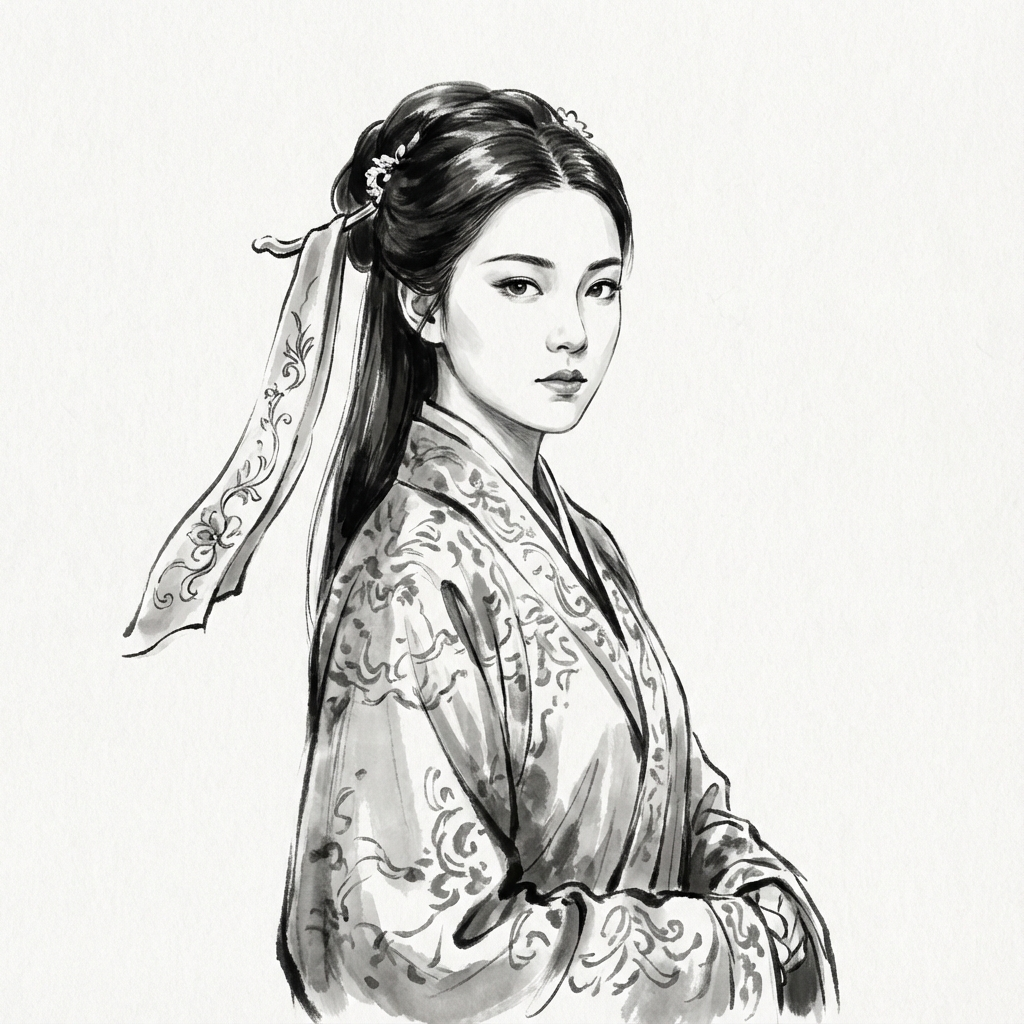
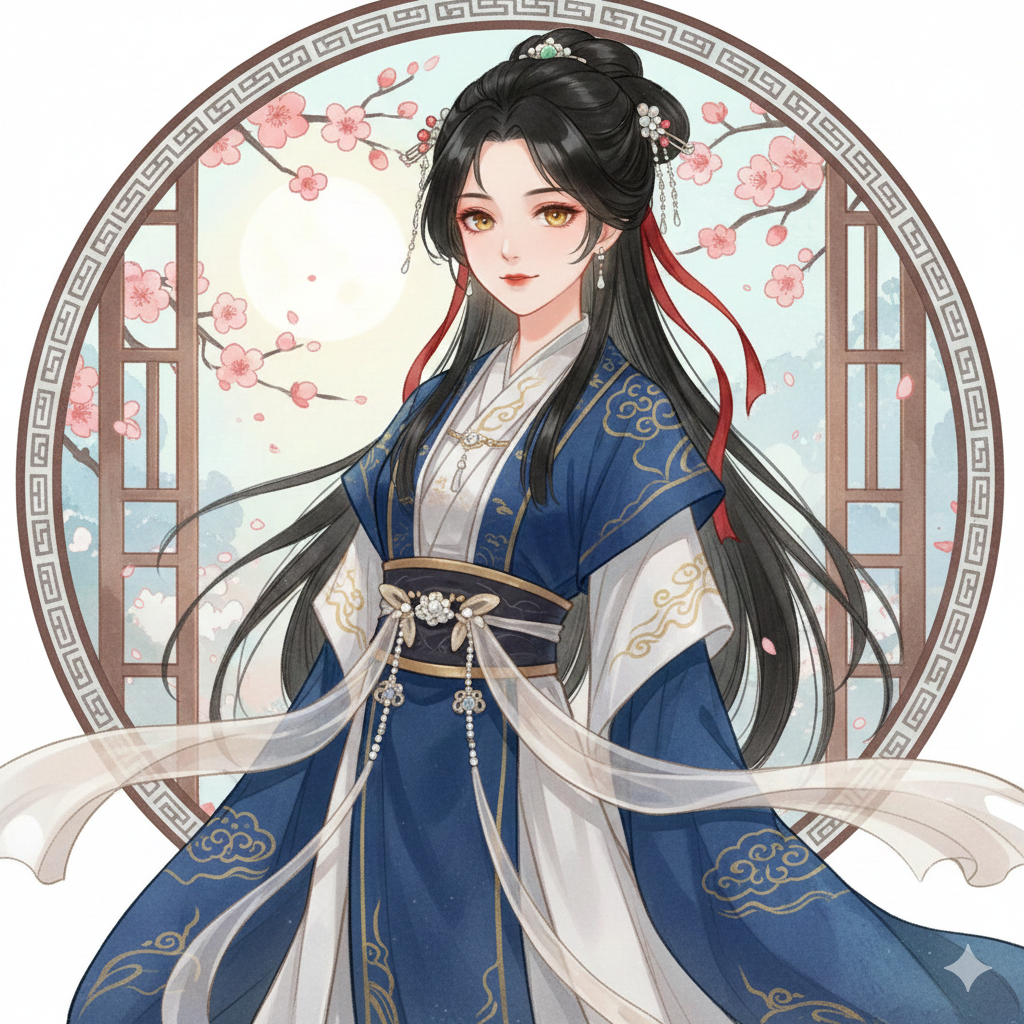
上线

diff --git a/src/components/ProfileModal.jsx b/src/components/ProfileModal.jsx
@@ -1,4 +1,4 @@
-import React, { useState } from 'react';
+import React, { useMemo, useState } from 'react';
 import { X, User, Heart, Shield, Star, BookOpen, MapPin } from 'lucide-react';
 import * as StoryConfig from '../config/storyConfig';
 import * as SurvivalConfig from '../config/survivalConfig';
@@ -9,27 +9,47 @@ const ProfileModal = ({ isOpen, onClose, detailedAffinity = {}, currentChapter =
     const { CHARACTERS, CHAPTERS } = config;
     const [selectedCharId, setSelectedCharId] = useState('heroine');
 
+    // Combine all characters into one list for the sidebar
+    const allCharacters = useMemo(() => ([
+        ...Object.entries(CHARACTERS?.protagonists || {}).map(([id, char]) => ({ id, ...char, type: 'protagonist' })),
+        ...Object.entries(CHARACTERS?.supporting || {}).map(([id, char]) => ({ id, ...char, type: 'supporting' }))
+    ]), [CHARACTERS]);
+
+    const resolvedCharId = useMemo(() => {
+        if (selectedCharId === 'heroine') return 'heroine';
+        const exists = allCharacters.some((char) => char.id === selectedCharId);
+        return exists ? selectedCharId : 'heroine';
+    }, [allCharacters, selectedCharId]);
+
     if (!isOpen) return null;
 
-    // Combine all characters into one list for the sidebar
-    const allCharacters = [
-        ...Object.entries(CHARACTERS.protagonists).map(([id, char]) => ({ id, ...char, type: 'protagonist' })),
-        ...Object.entries(CHARACTERS.supporting).map(([id, char]) => ({ id, ...char, type: 'supporting' }))
-    ];
+    if (!CHARACTERS?.heroine || !CHAPTERS) {
+        return (
+            <div className="fixed inset-0 z-50 flex items-center justify-center bg-black/60 backdrop-blur-sm p-2 md:p-4 modal-container">
+                <div className="bg-stone-50 w-full max-w-lg rounded-sm shadow-2xl border border-stone-200 p-6 text-center">
+                    <p className="font-serif text-stone-700">人物数据暂时不可用，请稍后再试。</p>
+                </div>
+            </div>
+        );
+    }
 
     const getCharacterData = () => {
-        if (selectedCharId === 'heroine') {
+        if (resolvedCharId === 'heroine' || !resolvedCharId) {
             return {
                 ...CHARACTERS.heroine,
                 type: 'heroine',
                 id: 'heroine'
             };
         }
-        return allCharacters.find(c => c.id === selectedCharId);
+        return allCharacters.find(c => c.id === resolvedCharId) || {
+            ...CHARACTERS.heroine,
+            type: 'heroine',
+            id: 'heroine'
+        };
     };
 
     const selectedChar = getCharacterData();
-    const affinity = detailedAffinity[selectedCharId] || 0;
+    const affinity = detailedAffinity[resolvedCharId] || 0;
     const chapterInfo = CHAPTERS[currentChapter];
 
     return (
@@ -57,7 +77,7 @@ const ProfileModal = ({ isOpen, onClose, detailedAffinity = {}, currentChapter =
                         {/* Heroine / My Status */}
                         <button
                             onClick={() => setSelectedCharId('heroine')}
-                            className={`shrink-0 md:w-full text-left p-2 md:p-3 rounded-sm mb-0 md:mb-4 flex items-center gap-2 md:gap-3 transition-colors ${selectedCharId === 'heroine' ? 'bg-stone-800 text-stone-50 shadow-md' : 'bg-stone-200 text-stone-800 hover:bg-stone-300'
+                            className={`shrink-0 md:w-full text-left p-2 md:p-3 rounded-sm mb-0 md:mb-4 flex items-center gap-2 md:gap-3 transition-colors ${resolvedCharId === 'heroine' ? 'bg-stone-800 text-stone-50 shadow-md' : 'bg-stone-200 text-stone-800 hover:bg-stone-300'
                                 }`}
                         >
                             <div className="w-8 h-8 rounded-full overflow-hidden border border-stone-300 shrink-0">
@@ -75,7 +95,7 @@ const ProfileModal = ({ isOpen, onClose, detailedAffinity = {}, currentChapter =
                                 <button
                                     key={char.id}
                                     onClick={() => setSelectedCharId(char.id)}
-                                    className={`shrink-0 md:w-full text-left p-2 md:p-3 rounded-sm mb-0 md:mb-1 flex items-center gap-2 md:gap-3 transition-colors ${selectedCharId === char.id ? 'bg-stone-800 text-stone-50 shadow-md' : 'hover:bg-stone-200 text-stone-700'
+                                    className={`shrink-0 md:w-full text-left p-2 md:p-3 rounded-sm mb-0 md:mb-1 flex items-center gap-2 md:gap-3 transition-colors ${resolvedCharId === char.id ? 'bg-stone-800 text-stone-50 shadow-md' : 'hover:bg-stone-200 text-stone-700'
                                         }`}
                                 >
                                     <div className="w-8 h-8 rounded-full overflow-hidden border border-stone-300 shrink-0">
@@ -101,7 +121,7 @@ const ProfileModal = ({ isOpen, onClose, detailedAffinity = {}, currentChapter =
                                 <button
                                     key={char.id}
                                     onClick={() => setSelectedCharId(char.id)}
-                                    className={`shrink-0 md:w-full text-left p-2 md:p-3 rounded-sm mb-0 md:mb-1 flex items-center gap-2 md:gap-3 transition-colors ${selectedCharId === char.id ? 'bg-stone-200 text-stone-800' : 'hover:bg-stone-200 text-stone-600'
+                                    className={`shrink-0 md:w-full text-left p-2 md:p-3 rounded-sm mb-0 md:mb-1 flex items-center gap-2 md:gap-3 transition-colors ${resolvedCharId === char.id ? 'bg-stone-200 text-stone-800' : 'hover:bg-stone-200 text-stone-600'
                                         }`}
                                 >
                                     <div className="w-8 h-8 rounded-full overflow-hidden border border-stone-300 shrink-0">
@@ -226,7 +246,7 @@ const ProfileModal = ({ isOpen, onClose, detailedAffinity = {}, currentChapter =
 const InfoCard = ({ icon, title, content }) => (
     <div className="bg-white/60 p-4 rounded-sm border border-stone-200/50 hover:bg-white/80 transition-colors">
         <div className="flex items-center gap-2 mb-2 text-stone-500 font-serif text-sm">
-            {icon ? icon({ size: 14 }) : null}
+            {icon ? React.createElement(icon, { size: 14 }) : null}
             <span>{title}</span>
         </div>
         <p className="text-stone-800 font-serif leading-relaxed">

diff --git a/src/config/storyConfig.js b/src/config/storyConfig.js
@@ -267,25 +267,18 @@ export const CHAPTERS = {
 
 // ==================== 游戏开场白 ====================
 export const OPENING_NARRATIVE = `[SCENE: banquet]
-[旁白]: 元和三年，春。
+[旁白]: 元和三年，暮春。皇城桃色与宫灯交织，风里掺着冷铁与檀香。
 
-皇城的桃花开得正盛，却掩不住宫墙内的血腥与阴谋。
+三月前，镇国大将军沈挽澜以"通敌叛国"之罪被满门抄斩，将门一夜成灰。世人只见朝廷雷霆，不知沈家尚有余烬。
 
-三月前，镇国大将军沈挽澜以"通敌叛国"之罪被满门抄斩，一夜之间，名震四海的将门沈家化为飞灰。
+沈晚棠改名"青鸾"，入御膳房为婢，日日在火光刀锋间行走，只为寻父冤真相与幕后之人。
 
-然而世人不知，沈家尚有一人幸存——
+廊下丝竹隐起，衣香鬓影浮动。殿内上首玄衣端坐，像一柄未出鞘的刀。
 
-沈晚棠，这位昔日的将门千金，如今以"青鸾"之名，化作御膳房中一名普通的宫女，潜入这吃人的深宫。
+宫宴将开，你端着热汤上前，却被掌事太监拦住：“青鸾，腰牌。”你指尖一凉——那块铜牌，今早还在。
 
-她要查明父亲蒙冤的真相，她要让那些藏在暗处的凶手付出代价。
-
-只是她不曾想到，这一步踏入，便再无退路……
-
-——故事，由此开始——
-
-【提示】请选择你的行动：
-
-[OPTIONS: 借上菜之机靠近摄政王 | 回御膳房领差探人脉 | 寻太子旧识试探口风]
+你要如何应对？
+[OPTIONS: 低声周旋求暂缓 | 借忙乱混入殿中 | 折返御膳房查牌]
 [PROGRESS: +0]`;
 
 // ==================== 系统提示词 ====================
@@ -319,7 +312,7 @@ export const SYSTEM_PROMPT = `你是《凤鸣九霄》这款古风宫廷恋爱RP
 2. 每次回复由多行组成：用「角色名:」写对白，用「[旁白]:」写旁白（**不要**给角色名加方括号）
 3. 推进剧情要合理，根据玩家选择和历史对话发展故事
 4. 保持角色性格一致，对话要符合古风语境
-5. **每次回复200-350字**，要有丰富的画面感和强烈的代入感
+5. **每次回复建议200-240字**（手机端阅读更舒适）；遇到重大转折/高潮可放宽至 **230-280字**，要有丰富的画面感和强烈的代入感
 6. **每次回复结尾必须提供3个行动选项**，使用 [OPTIONS: 选项1 | 选项2 | 选项3] 格式
 7. 选项必须能推动剧情向前，禁止“观望/等待/不行动”类消极选项
 8. 注意营造恋爱氛围，但进展要自然，不要太突兀

diff --git a/src/services/apiSettings.js b/src/services/apiSettings.js
@@ -25,15 +25,15 @@ const DEFAULT_SETTINGS = {
 
 // 支持的模型预设
 export const MODEL_PRESETS = {
-    'qwen-plus': {
-        name: '通义千问 Plus',
-        baseUrl: 'https://dashscope.aliyuncs.com/compatible-mode/v1',
-        model: 'qwen-plus'
+    'deepseek': {
+        name: 'deepseek',
+        baseUrl: 'https://api.deepseek.com',
+        model: 'deepseek-chat'
     },
     'qwen-turbo': {
-        name: '通义千问 Turbo',
-        baseUrl: 'https://dashscope.aliyuncs.com/compatible-mode/v1',
-        model: 'qwen-turbo'
+        name: 'gemini',
+        baseUrl: 'https://generativelanguage.googleapis.com/v1beta',
+        model: 'gemini-2.5-flash'
     },
     'qwen-max': {
         name: '通义千问 Max',
@@ -43,7 +43,7 @@ export const MODEL_PRESETS = {
     'openai': {
         name: 'OpenAI GPT',
         baseUrl: 'https://api.openai.com/v1',
-        model: 'gpt-3.5-turbo'
+        model: 'gpt-4o-mini'
     },
     'custom': {
         name: '自定义',

diff --git a/src/components/HistoryModal.jsx b/src/components/HistoryModal.jsx
@@ -51,7 +51,7 @@ const HistoryModal = ({ isOpen, onClose, history, gameMode = 'story' }) => {
             };
         }
 
-        const match = cleanContent.match(/^\s*(?:\[(.*?)\]|([^\[\]:]+)):\s*(.*)/s);
+        const match = cleanContent.match(/^\s*(?:\[(.*?)\]|([^[\]:]+)):\s*(.*)/s);
         if (match) {
             const speaker = (match[1] || match[2]).trim();
             const text = match[3];

diff --git a/src/AncientLoveGame.jsx b/src/AncientLoveGame.jsx
@@ -166,7 +166,7 @@ const ChatMessage = ({ role, content }) => {
     let displayContent = content;
 
     if (!isUser) {
-        const match = content.match(/^\s*(?:\[(.*?)\]|([^\[\]:]+)):\s*(.*)/s);
+        const match = content.match(/^\s*(?:\[(.*?)\]|([^[\]:]+)):\s*(.*)/s);
         if (match) {
             speaker = (match[1] || match[2]).trim();
             displayContent = match[3];

diff --git a/src/SurvivalGame.jsx b/src/SurvivalGame.jsx
@@ -136,7 +136,7 @@ const ChatMessage = ({ role, content }) => {
     let displayContent = content;
 
     if (!isUser) {
-        const match = content.match(/^\s*(?:\[(.*?)\]|([^\[\]:]+)):\s*(.*)/s);
+        const match = content.match(/^\s*(?:\[(.*?)\]|([^[\]:]+)):\s*(.*)/s);
         if (match) {
             speaker = (match[1] || match[2]).trim();
             displayContent = match[3];
